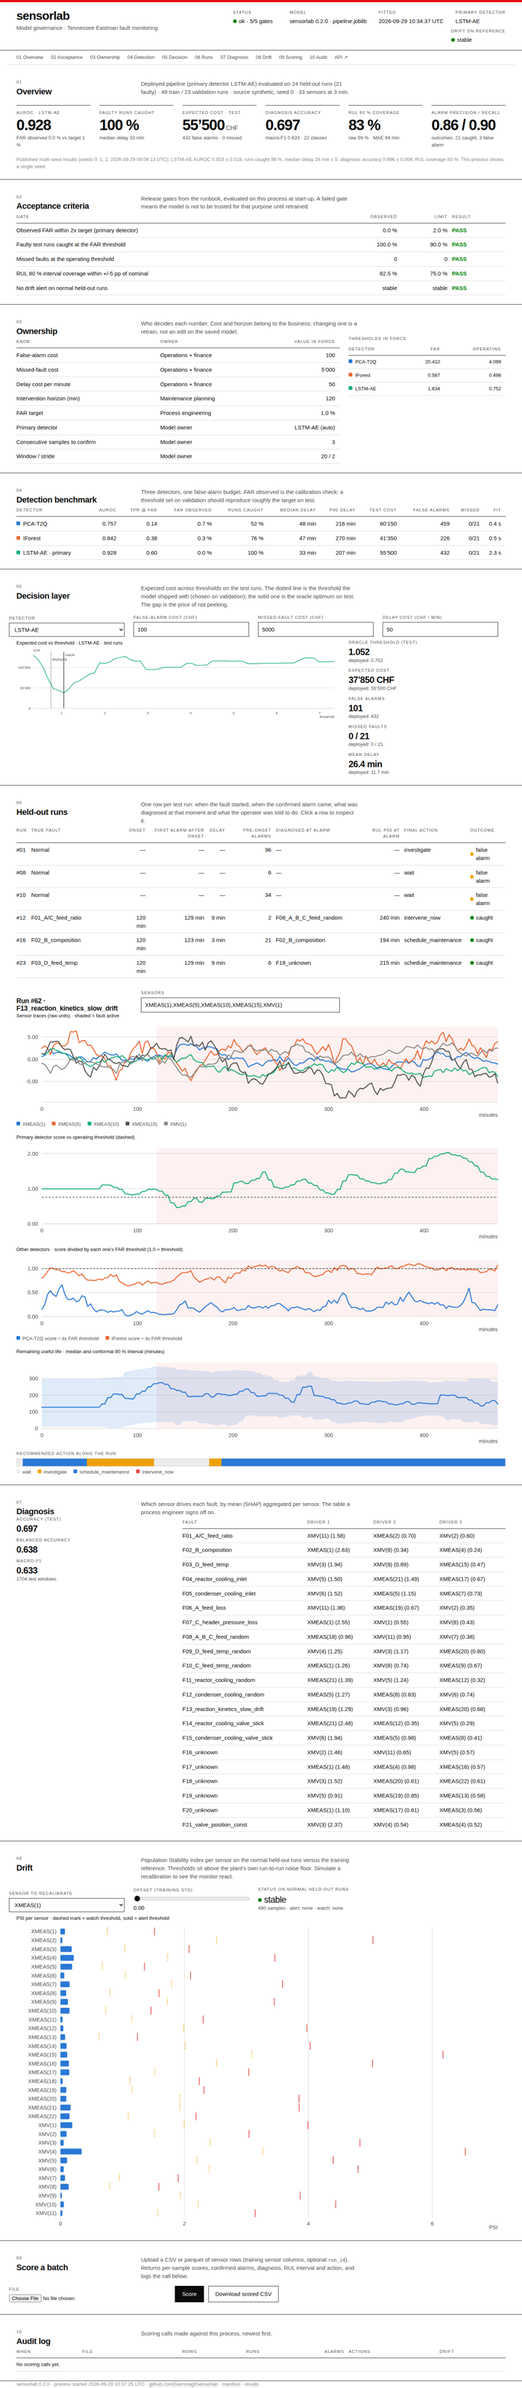
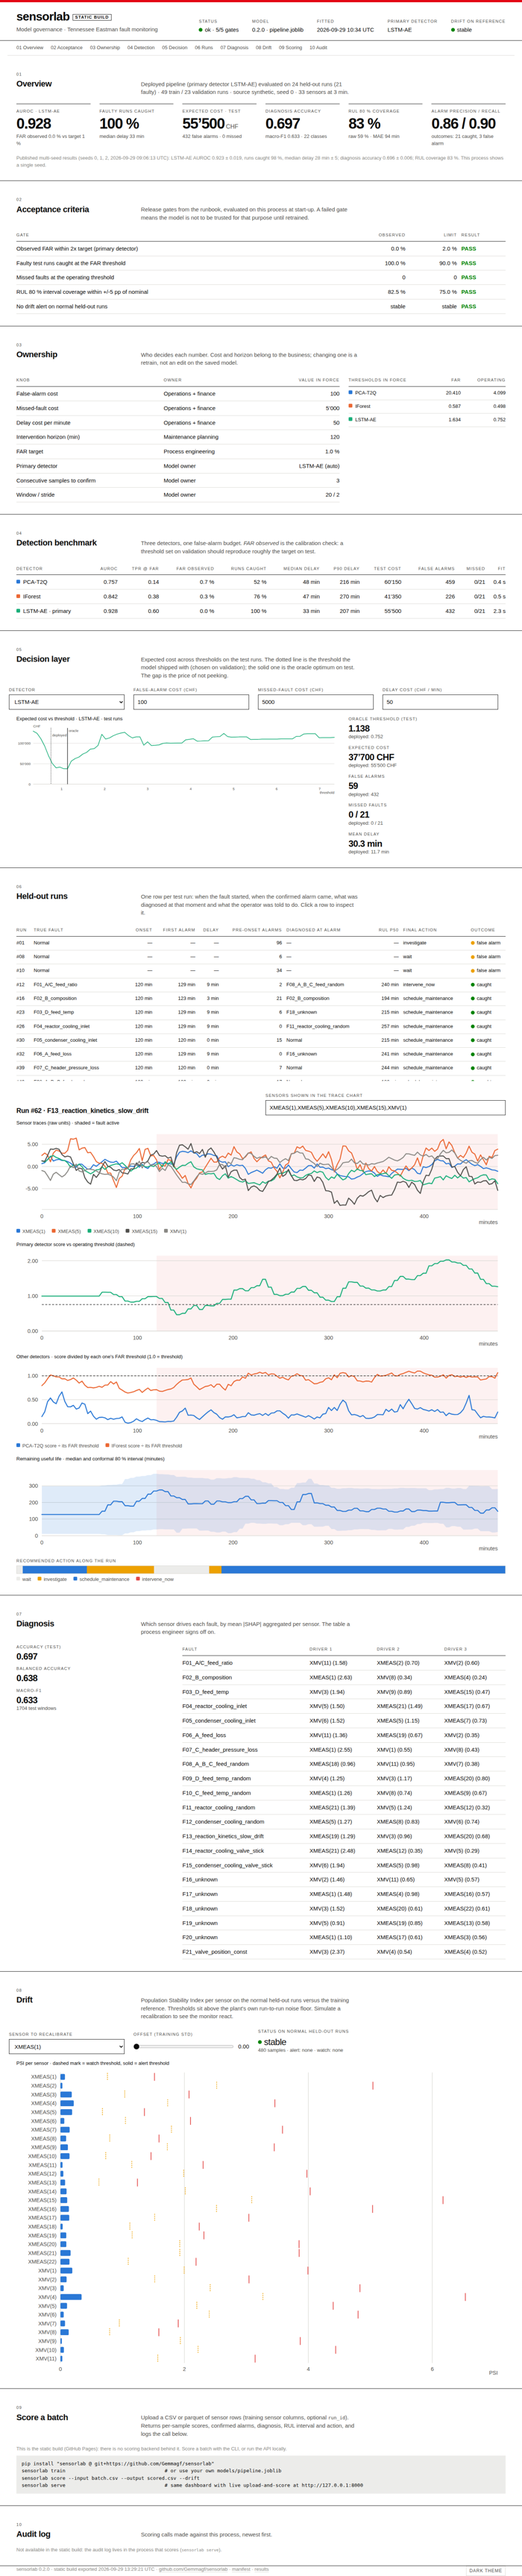
Dashboard UI: light theme by default, aligned masthead, tables and controls
- Light background regardless of the OS colour scheme; dark theme only via
  the footer toggle (remembered in localStorage).
- Masthead metadata on a content-sized grid, no wrapping or truncation.
- Section titles and ledes share a baseline; tables no longer stretch to
  the tallest grid neighbour; headers and status pills never wrap; the
  held-out runs table is compact with shorter headers and scrolls.
- One 40 px height for selects, inputs, file field, range row and buttons.
- Refreshed docs/dashboard.png.

Claude-Session: https://claude.ai/code/session_01J1VyAQYzwYDUhqqw7jagsa

diff --git a/src/sensorlab/server/static/styles.css b/src/sensorlab/server/static/styles.css
@@ -21,15 +21,6 @@
   --band: rgba(227, 73, 72, 0.08);
   --font: "Helvetica Neue", Helvetica, Arial, "Liberation Sans", sans-serif;
 }
-@media (prefers-color-scheme: dark) {
-  :root:not([data-theme="light"]) {
-    color-scheme: dark;
-    --bg: #131312; --surface: #1a1a19; --ink: #ffffff; --ink-2: #c3c2b7; --ink-3: #8a8985;
-    --rule: #ffffff; --rule-soft: #3a3a37; --grid: #262624;
-    --series-1: #3987e5; --series-2: #d95926; --series-3: #199e70;
-    --good: #2fa62f; --warn: #c98500; --crit: #e66767; --band: rgba(230, 103, 103, 0.12);
-  }
-}
 :root[data-theme="dark"] {
   color-scheme: dark;
   --bg: #131312; --surface: #1a1a19; --ink: #ffffff; --ink-2: #c3c2b7; --ink-3: #8a8985;
@@ -61,12 +52,15 @@ code { font-family: "SF Mono", Menlo, Consolas, monospace; font-size: 0.85em; }
 }
 
 /* masthead */
-.masthead { border-top: 6px solid var(--brand); padding: 20px 0 16px; border-bottom: 1px solid var(--rule); }
+.masthead { border-top: 6px solid var(--brand); padding: 22px 0 18px; border-bottom: 1px solid var(--rule); }
+.masthead .grid { align-items: end; }
 .brand { font-size: 2rem; font-weight: 700; letter-spacing: -0.03em; line-height: 1; }
-.brand-sub { color: var(--ink-2); margin-top: 6px; }
-.masthead-meta { display: flex; flex-wrap: wrap; gap: 8px 32px; align-items: flex-end; justify-content: flex-end; }
-.meta { display: flex; flex-direction: column; min-width: 120px; }
-.meta .value { font-weight: 500; }
+.brand-sub { color: var(--ink-2); margin-top: 8px; white-space: nowrap; }
+.masthead-meta { display: grid; grid-template-columns: repeat(5, max-content); column-gap: 36px; align-items: end; justify-content: end; }
+.meta { display: flex; flex-direction: column; min-width: 0; }
+.meta .label { white-space: nowrap; }
+.meta .value { font-weight: 500; white-space: nowrap; overflow: hidden; text-overflow: ellipsis; line-height: 1.3; }
+@media (max-width: 900px) { .masthead-meta { grid-template-columns: repeat(2, minmax(0, 1fr)); row-gap: 12px; } }
 
 .label {
   display: block; font-size: 0.6875rem; text-transform: uppercase; letter-spacing: 0.12em;
@@ -78,26 +72,33 @@ code { font-family: "SF Mono", Menlo, Consolas, monospace; font-size: 0.85em; }
 .toc a { border: none; color: var(--ink-2); } .toc a:hover { color: var(--ink); }
 
 /* sections */
-.section { padding: 40px 0 24px; border-bottom: 1px solid var(--rule); }
-.section-head h2, .section-head h3 { margin: 0; font-size: 1.375rem; font-weight: 700; letter-spacing: -0.02em; line-height: 1.15; }
+.section { padding: 44px 0 32px; border-bottom: 1px solid var(--rule); }
+.section-head { align-items: start; margin-bottom: 20px; }
+.section-head h2, .section-head h3 { margin: 0; font-size: 1.375rem; font-weight: 700; letter-spacing: -0.02em; line-height: 1.2; }
 .section-head h3 { font-size: 1.125rem; }
-.section-head.sub { margin-top: 24px; align-items: end; }
+.section-head .lede { padding-top: 22px; }   /* first lede line sits level with the title, below the section number */
+.section-head.sub { margin-top: 32px; align-items: end; margin-bottom: 12px; }
+.section-head.sub .lede { padding-top: 0; }
 .sec-num { display: block; font-size: 0.6875rem; letter-spacing: 0.12em; color: var(--ink-2); font-weight: 400; margin-bottom: 6px; }
 .lede { margin: 0; color: var(--ink-2); max-width: 70ch; }
 .note { color: var(--ink-3); font-size: 0.8125rem; margin: 0; }
 
 /* KPI tiles */
-.kpis { margin-top: 24px; row-gap: 0; }
+.kpis { margin-top: 8px; row-gap: 0; }
 .kpi { grid-column: span 2; border-top: 1px solid var(--rule); padding: 12px 0 20px; }
 @media (max-width: 900px) { .kpi { grid-column: span 6; } }
 .kpi .value { font-size: 2.5rem; font-weight: 700; letter-spacing: -0.04em; line-height: 1; font-variant-numeric: tabular-nums; }
 .kpi .unit { font-size: 1rem; font-weight: 400; color: var(--ink-2); margin-left: 4px; letter-spacing: 0; }
-.kpi .sub { color: var(--ink-2); font-size: 0.8125rem; margin-top: 6px; }
+.kpi .sub { color: var(--ink-2); font-size: 0.8125rem; margin-top: 6px; min-height: 2.6em; }
 
 /* tables */
-.table { width: 100%; border-collapse: collapse; font-variant-numeric: tabular-nums; }
+.table { width: 100%; border-collapse: collapse; font-variant-numeric: tabular-nums; align-self: start; }
 .table th, .table td { text-align: left; padding: 8px 12px 8px 0; border-bottom: 1px solid var(--rule-soft); vertical-align: top; }
-.table th { font-size: 0.6875rem; text-transform: uppercase; letter-spacing: 0.12em; color: var(--ink-2); font-weight: 400; border-bottom: 1px solid var(--rule); }
+.table th { font-size: 0.6875rem; text-transform: uppercase; letter-spacing: 0.12em; color: var(--ink-2); font-weight: 400; border-bottom: 1px solid var(--rule); white-space: nowrap; }
+.table td { white-space: nowrap; }
+.table td:first-child, .table th:first-child { padding-left: 0; }
+.table td:last-child, .table th:last-child { padding-right: 0; }
+.table.wrap td { white-space: normal; }
 .table td.num, .table th.num { text-align: right; }
 .table.small { font-size: 0.8125rem; }
 .table tr.clickable { cursor: pointer; } .table tr.clickable:hover td { background: var(--grid); }
@@ -106,22 +107,25 @@ code { font-family: "SF Mono", Menlo, Consolas, monospace; font-size: 0.85em; }
 .table .swatch { display: inline-block; width: 10px; height: 10px; border-radius: 2px; margin-right: 8px; vertical-align: 1px; }
 
 /* status */
-.status { display: inline-flex; align-items: center; gap: 6px; font-weight: 500; }
+.status { display: inline-flex; align-items: center; gap: 6px; font-weight: 500; white-space: nowrap; }
 .status::before { content: ""; width: 10px; height: 10px; border-radius: 50%; background: var(--ink-3); }
 .status.good::before { background: var(--good); } .status.warn::before { background: var(--warn); } .status.crit::before { background: var(--crit); }
 .pass { color: var(--good); font-weight: 700; } .fail { color: var(--crit); font-weight: 700; }
 
 /* controls */
-.controls { align-items: end; margin: 16px 0 8px; }
+.controls { align-items: end; margin: 0 0 16px; }
 .controls label { display: block; }
-select, input[type="number"], input[type="text"] {
-  width: 100%; font: inherit; padding: 8px 10px; border: 1px solid var(--rule); border-radius: 0; background: var(--surface); color: var(--ink);
+select, input[type="number"], input[type="text"], input[type="file"] {
+  width: 100%; height: 40px; font: inherit; padding: 0 10px; border: 1px solid var(--rule); border-radius: 0; background: var(--surface); color: var(--ink);
 }
-input[type="range"] { width: 100%; accent-color: var(--ink); }
-.btn { font: inherit; font-weight: 500; padding: 10px 18px; border: 1px solid var(--ink); background: var(--ink); color: var(--bg); cursor: pointer; border-radius: 0; }
+input[type="file"] { padding: 7px 10px; }
+.range-row { display: flex; align-items: center; gap: 12px; height: 40px; }
+.range-row input[type="range"] { flex: 1; accent-color: var(--ink); margin: 0; }
+.range-row output { min-width: 3ch; text-align: right; font-variant-numeric: tabular-nums; }
+.btn { font: inherit; font-weight: 500; height: 40px; padding: 0 18px; border: 1px solid var(--ink); background: var(--ink); color: var(--bg); cursor: pointer; border-radius: 0; }
 .btn.secondary { background: transparent; color: var(--ink); }
 .btn:disabled { opacity: 0.4; cursor: default; }
-.actions { display: flex; gap: 12px; align-items: center; flex-wrap: wrap; }
+.actions { display: flex; gap: 12px; align-items: center; flex-wrap: wrap; height: 40px; }
 .msg { color: var(--ink-2); font-size: 0.8125rem; }
 
 /* charts */
@@ -140,7 +144,8 @@ input[type="range"] { width: 100%; accent-color: var(--ink); }
 .dot { stroke: var(--surface); stroke-width: 2; }
 .legend { display: flex; flex-wrap: wrap; gap: 6px 18px; font-size: 0.8125rem; color: var(--ink-2); margin-top: 6px; }
 .legend .swatch { display: inline-block; width: 10px; height: 10px; border-radius: 2px; margin-right: 6px; vertical-align: 1px; }
-.stats { display: flex; flex-direction: column; gap: 10px; }
+.stats { display: flex; flex-direction: column; gap: 12px; padding-top: 2px; }
+.stats.inline { flex-direction: row; flex-wrap: wrap; gap: 12px 32px; align-items: end; }
 .stat .value { font-size: 1.5rem; font-weight: 700; letter-spacing: -0.03em; font-variant-numeric: tabular-nums; line-height: 1.1; }
 .stat .sub { color: var(--ink-2); font-size: 0.8125rem; }
 
@@ -161,6 +166,8 @@ input[type="range"] { width: 100%; accent-color: var(--ink); }
 .tooltip .row { display: flex; justify-content: space-between; gap: 14px; }
 
 footer { padding: 24px 0 40px; color: var(--ink-3); font-size: 0.8125rem; }
+footer .col-12 { display: flex; justify-content: space-between; gap: 16px; flex-wrap: wrap; }
+.theme-toggle { font: inherit; font-size: 0.75rem; letter-spacing: 0.08em; text-transform: uppercase; background: none; border: 1px solid var(--rule-soft); color: var(--ink-2); padding: 4px 8px; cursor: pointer; }
 
 pre.code { font-family: "SF Mono", Menlo, Consolas, monospace; font-size: 0.8125rem; line-height: 1.5; background: var(--grid); padding: 12px 14px; margin: 8px 0 0; overflow-x: auto; }
 .static-badge { display: inline-block; font-size: 0.6875rem; letter-spacing: 0.12em; text-transform: uppercase; border: 1px solid var(--ink); padding: 2px 6px; margin-left: 8px; vertical-align: middle; }

diff --git a/src/sensorlab/server/static/app.js b/src/sensorlab/server/static/app.js
@@ -160,8 +160,8 @@
     const h = await api("api/health");
     $("#m-status").textContent = ""; $("#m-drift").textContent = "";
     $("#m-status").append(el("span", { class: "status " + statusClass(h.status) }, `${h.status} · ${h.checks_passed}/${h.checks_total} gates`));
-    $("#m-model").textContent = `sensorlab ${h.model_version} · ${h.model_path.split("/").pop()}`;
-    $("#m-fitted").textContent = fmt.date(h.fitted_at);
+    $("#m-model").textContent = `${h.model_version} · ${h.model_path.split("/").pop()}`;
+    $("#m-fitted").textContent = (h.fitted_at || "").slice(0, 16).replace("T", " ") + " UTC";
     $("#m-primary").textContent = h.primary_detector;
     $("#m-drift").append(el("span", { class: "status " + statusClass(h.drift_status) }, h.drift_status));
     $("#foot-version").textContent = STATIC ? `sensorlab ${h.sensorlab_version} · static build exported ${fmt.date(window.SENSORLAB_STATIC.exported_at)}` : `sensorlab ${h.sensorlab_version} · process started ${fmt.date(h.started_at)}`;
@@ -205,7 +205,7 @@
     o.append(el("thead", {}, el("tr", {}, [el("th", {}, "Knob"), el("th", {}, "Owner"), el("th", { class: "num" }, "Value in force")])));
     o.append(el("tbody", {}, OV.ownership.map((r) => el("tr", {}, [el("td", {}, r.knob), el("td", {}, r.owner), el("td", { class: "num" }, r.key === "far_target" ? fmt.pct(r.value, 1) : typeof r.value === "number" ? fmt.int(r.value) : String(r.value))]))));
     const th = $("#thresholds"); th.innerHTML = "";
-    th.append(el("thead", {}, el("tr", {}, [el("th", {}, "Detector"), el("th", { class: "num" }, "FAR"), el("th", { class: "num" }, "Operating")])));
+    th.append(el("thead", {}, el("tr", {}, [el("th", {}, "Thresholds in force"), el("th", { class: "num" }, "FAR"), el("th", { class: "num" }, "Operating")])));
     th.append(el("tbody", {}, OV.model.detectors.map((d) => el("tr", {}, [el("td", {}, [el("span", { class: "swatch", style: `background:${DET_COLOR[d]}` }), d]), el("td", { class: "num" }, fmt.num(OV.thresholds.far[d], 3)), el("td", { class: "num" }, fmt.num(OV.thresholds.operating[d], 3))]))));
 
     // detection table
@@ -231,7 +231,7 @@
   async function loadRuns() {
     RUNS = await api("api/runs");
     const t = $("#runs"); t.innerHTML = "";
-    t.append(el("thead", {}, el("tr", {}, ["Run", "True fault", "Onset", "First alarm after onset", "Delay", "Pre-onset alarms", "Diagnosed at alarm", "RUL p50 at alarm", "Final action", "Outcome"].map((h, i) => el("th", { class: [2, 3, 4, 5, 7].includes(i) ? "num" : "" }, h)))));
+    t.append(el("thead", {}, el("tr", {}, ["Run", "True fault", "Onset", "First alarm", "Delay", "Pre-onset alarms", "Diagnosed at alarm", "RUL p50", "Final action", "Outcome"].map((h, i) => el("th", { class: [2, 3, 4, 5, 7].includes(i) ? "num" : "" }, h)))));
     const cls = { caught: "good", clean: "good", "false alarm": "warn", missed: "crit" };
     t.append(el("tbody", {}, RUNS.map((r) => { const tr = el("tr", { class: "clickable", "data-run": r.run_id }, [el("td", {}, `#${String(r.run_id).padStart(2, "0")}`), el("td", {}, r.true_fault), el("td", { class: "num" }, fmt.min(r.onset_min)), el("td", { class: "num" }, fmt.min(r.first_alarm_min)), el("td", { class: "num" }, fmt.min(r.delay_min)), el("td", { class: "num" }, r.pre_onset_alarms), el("td", {}, r.diagnosed_at_alarm || "—"), el("td", { class: "num" }, fmt.min(r.rul_p50_at_alarm)), el("td", {}, r.final_action), el("td", {}, el("span", { class: "status " + cls[r.outcome] }, r.outcome))]); tr.addEventListener("click", () => loadRun(r.run_id)); return tr; })));
     const first = RUNS.find((r) => r.true_fault_id === 13) || RUNS.find((r) => r.true_fault_id > 0) || RUNS[0];
@@ -307,6 +307,11 @@
     } catch (e) { msg.textContent = "Error: " + e.message.slice(0, 300); }
     finally { $("#score-btn").disabled = false; $("#score-csv").disabled = false; }
   }
+
+  // ------------------------------------------------------------------ theme (light by default; dark only on request)
+  function applyTheme(t) { if (t === "dark") document.documentElement.setAttribute("data-theme", "dark"); else document.documentElement.removeAttribute("data-theme"); const b = $("#theme-toggle"); if (b) b.textContent = t === "dark" ? "Light theme" : "Dark theme"; }
+  try { applyTheme(localStorage.getItem("sensorlab-theme") || "light"); } catch { applyTheme("light"); }
+  $("#theme-toggle").addEventListener("click", () => { const next = document.documentElement.getAttribute("data-theme") === "dark" ? "light" : "dark"; applyTheme(next); try { localStorage.setItem("sensorlab-theme", next); } catch {} });
 
   // ------------------------------------------------------------------ boot
   async function boot() {

diff --git a/src/sensorlab/server/static/index.html b/src/sensorlab/server/static/index.html
@@ -45,15 +45,15 @@
     <section id="s02" class="section">
       <div class="grid section-head"><h2 class="col-3"><span class="sec-num">02</span>Acceptance criteria</h2>
         <p class="col-9 lede">Release gates from the runbook, evaluated on this process at start-up. A failed gate means the model is not to be trusted for that purpose until retrained.</p></div>
-      <div class="grid"><table class="col-12 table" id="acceptance"></table></div>
+      <div class="grid"><table class="col-12 table wrap" id="acceptance"></table></div>
     </section>
 
     <!-- 03 -->
     <section id="s03" class="section">
       <div class="grid section-head"><h2 class="col-3"><span class="sec-num">03</span>Ownership</h2>
         <p class="col-9 lede">Who decides each number. Cost and horizon belong to the business; changing one is a retrain, not an edit on the saved model.</p></div>
-      <div class="grid"><table class="col-8 table" id="ownership"></table>
-        <div class="col-4"><div class="label">Thresholds in force</div><table class="table small" id="thresholds"></table></div></div>
+      <div class="grid"><table class="col-8 table wrap" id="ownership"></table>
+        <table class="col-4 table small" id="thresholds"></table></div>
     </section>
 
     <!-- 04 -->
@@ -80,9 +80,9 @@
     <section id="s06" class="section">
       <div class="grid section-head"><h2 class="col-3"><span class="sec-num">06</span>Held-out runs</h2>
         <p class="col-9 lede">One row per test run: when the fault started, when the confirmed alarm came, what was diagnosed at that moment and what the operator was told to do. Click a row to inspect it.</p></div>
-      <div class="grid"><div class="col-12 table-wrap"><table class="table" id="runs"></table></div></div>
-      <div class="grid section-head sub"><h3 class="col-3" id="run-title">Run —</h3>
-        <label class="col-5"><span class="label">Sensors</span><input id="run-sensors" type="text" value="XMEAS(1),XMEAS(5),XMEAS(10),XMEAS(15),XMV(1)"></label></div>
+      <div class="grid"><div class="col-12 table-wrap"><table class="table small" id="runs"></table></div></div>
+      <div class="grid section-head sub"><h3 class="col-6" id="run-title">Run —</h3>
+        <label class="col-6"><span class="label">Sensors shown in the trace chart</span><input id="run-sensors" type="text" value="XMEAS(1),XMEAS(5),XMEAS(10),XMEAS(15),XMV(1)"></label></div>
       <div class="grid">
         <div class="col-12 chart" id="run-traces"></div>
         <div class="col-12 chart" id="run-scores"></div>
@@ -105,8 +105,8 @@
         <p class="col-9 lede">Population Stability Index per sensor on the normal held-out runs versus the training reference. Thresholds sit above the plant's own run-to-run noise floor. Simulate a recalibration to see the monitor react.</p></div>
       <div class="grid controls">
         <label class="col-3"><span class="label">Sensor to recalibrate</span><select id="drift-sensor"></select></label>
-        <label class="col-3"><span class="label">Offset (training std)</span><input id="drift-shift" type="range" min="0" max="3" step="0.25" value="0"><span id="drift-shift-val">0.00</span></label>
-        <div class="col-6 stats" id="drift-status"></div>
+        <label class="col-3"><span class="label">Offset (training std)</span><span class="range-row"><input id="drift-shift" type="range" min="0" max="3" step="0.25" value="0"><output id="drift-shift-val">0.00</output></span></label>
+        <div class="col-6 stats inline" id="drift-status"></div>
       </div>
       <div class="grid"><div class="col-12 chart" id="drift-chart"></div></div>
     </section>
@@ -139,7 +139,7 @@ sensorlab serve                                  # same dashboard with live uplo
     </section>
   </main>
 
-  <footer class="grid"><div class="col-12"><span id="foot-version"></span> · <a href="https://github.com/Gemmagf/sensorlab">github.com/Gemmagf/sensorlab</a> · <a href="api/manifest" id="foot-manifest">manifest</a> · <a href="api/results" id="foot-results">results</a></div></footer>
+  <footer class="grid"><div class="col-12"><span><span id="foot-version"></span> · <a href="https://github.com/Gemmagf/sensorlab">github.com/Gemmagf/sensorlab</a> · <a href="api/manifest" id="foot-manifest">manifest</a> · <a href="api/results" id="foot-results">results</a></span><button class="theme-toggle" id="theme-toggle" type="button">Dark theme</button></div></footer>
   <div id="tooltip" class="tooltip" hidden></div>
   <script src="static/app.js"></script>
 </body>
